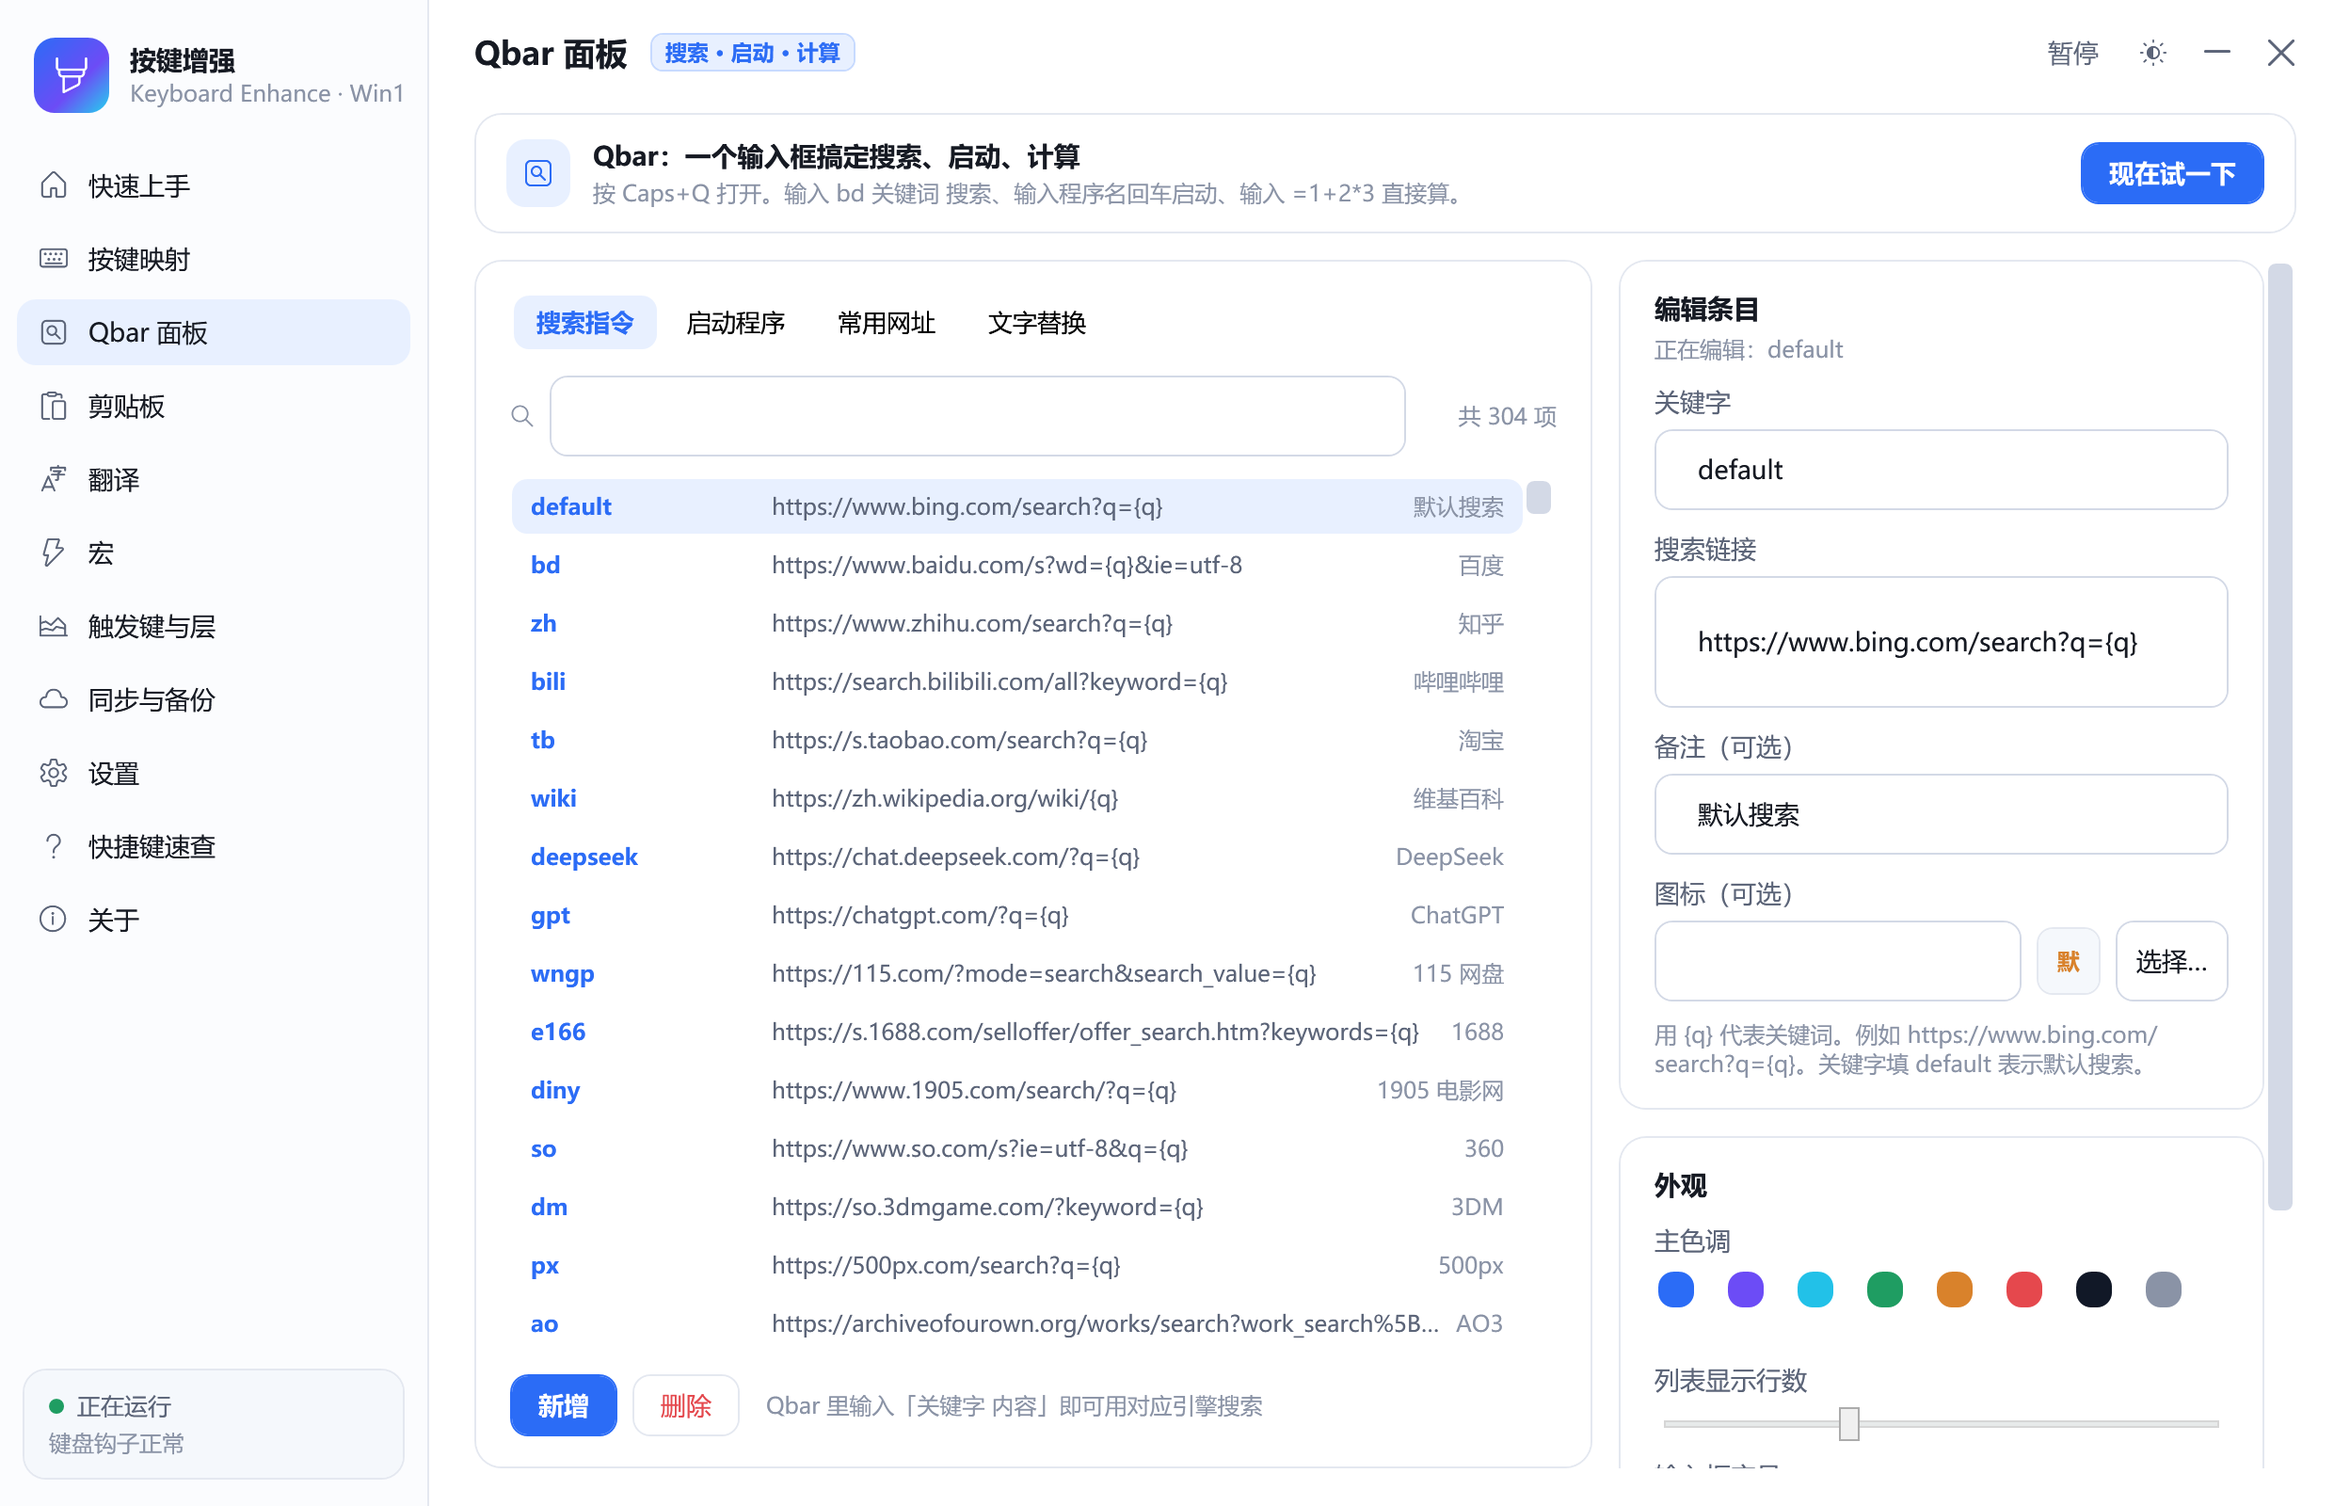
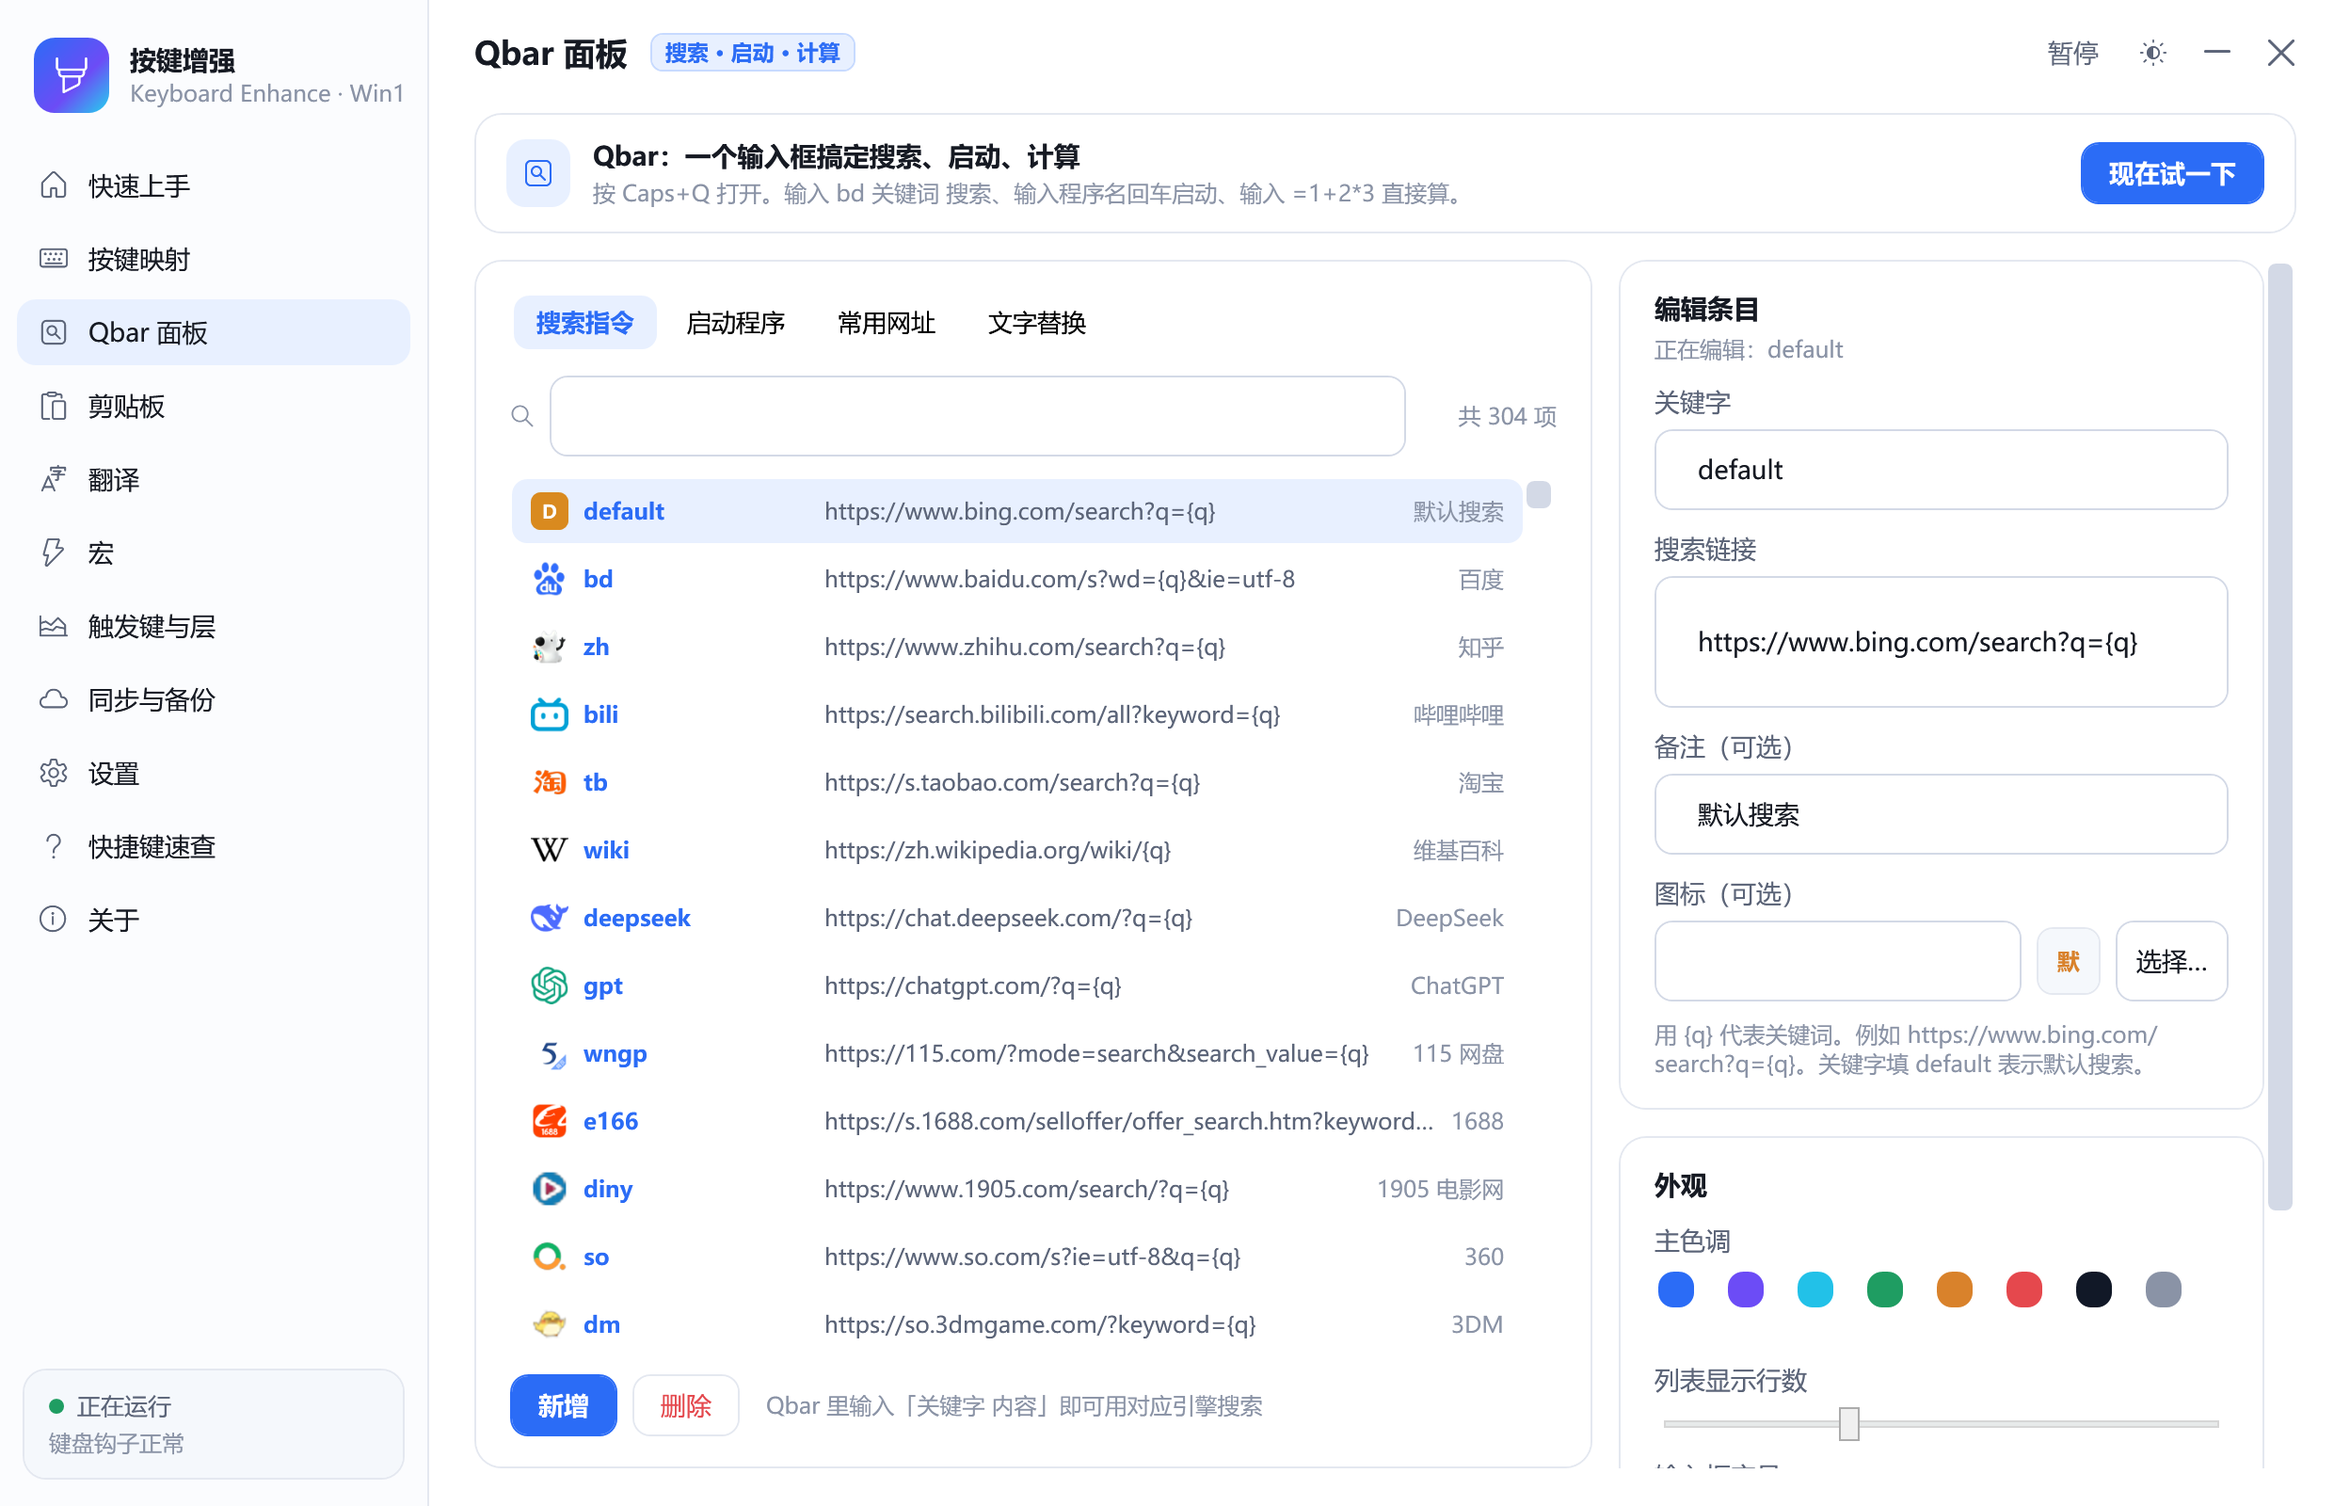
feat: v2.3.0 —— Qbar 引擎列表显示图标；按键映射页去掉布局方案下拉与搜索框
## 一、Qbar 列表显示搜索引擎图标

「Qbar 面板」设置页的搜索指令列表，最左边现在显示对应引擎的图标：

* 内置引擎用随程序打包的**品牌图标**（百度、知乎、B站、淘宝、GitHub、ChatGPT…）
* 「启动程序」条目取该 exe 的图标
* 都没有时退回首字母色块（按关键字取稳定配色，同一引擎永远同色）

复用了现有的 `IconCache.ForEntry` 优先级链（内置资源 → 自定义图标路径 → exe 图标）。

## 二、按键映射页移除布局方案下拉

顶部原本有「布局方案」下拉（Capslox / 经典 CapsLock+ 3.0）和「恢复默认」按钮。

用户要求：**直接用新版且不可更改**。所以：

* 下掉整个下拉控件
* `SettingsStore.Normalize` 里强制 `HotkeyScheme = "capslox"` ——
  老配置即使写着 `capslock_plus`，读进来也归一化为新版
* 字段本身保留（避免旧配置解析失败），只是不再有切换入口
* 删除 `OnSchemeChanged`（含"切换会替换按键映射"的确认对话框）

理由：两套方案的差别仅在于默认绑定表，用户真正需要的是"改哪个键做什么"，
不需要先理解自己属于哪一代方案。

## 三、移除旁边的搜索框

那是个空白文本框，原本用于过滤键盘上的键。实际使用中几乎没人用，
却占掉一整行空间。现在顶部只剩一行提示文字 + 「恢复默认」按钮，
键盘区域得以更完整地展示。

配套把 `BuildKeyboard` 的过滤条件恒置为空（`filter = ""`），
并删除 `OnSearchChanged`。

## 自检

**867 项全部通过**。

## 验证（发布版实测）

| 项目 | 结果 |
| --- | --- |
| 自检 | **867 / 867** |
| 渲染 | 20 个页面（Qbar 列表已显示图标）|
| WebDAV 真实往返 | 11 / 11 |

diff --git a/src/CapsLockPlus/UI/Views/QbarSettingsView.xaml b/src/CapsLockPlus/UI/Views/QbarSettingsView.xaml
@@ -117,17 +117,34 @@
                         <DataTemplate>
                             <Grid>
                                 <Grid.ColumnDefinitions>
+                                    <!-- 图标列：搜索引擎品牌图标 / 程序图标 -->
+                                    <ColumnDefinition Width="Auto" />
                                     <ColumnDefinition Width="120" />
                                     <ColumnDefinition Width="*" />
                                     <ColumnDefinition Width="Auto" />
                                 </Grid.ColumnDefinitions>
-                                <TextBlock Grid.Column="0" Text="{Binding Key}" FontWeight="SemiBold"
+
+                                <!-- 有图标显示图标，没有则显示首字母色块 -->
+                                <Grid Grid.Column="0" Width="20" Height="20" Margin="0,0,8,0"
+                                      VerticalAlignment="Center">
+                                    <Image Source="{Binding Icon}" Stretch="Uniform"
+                                           RenderOptions.BitmapScalingMode="HighQuality" />
+                                    <Border Background="{Binding LetterBrush}" CornerRadius="5"
+                                            Visibility="{Binding NoIconVisibility}">
+                                        <TextBlock Text="{Binding Initial}" FontSize="10"
+                                                   FontWeight="SemiBold" Foreground="White"
+                                                   HorizontalAlignment="Center"
+                                                   VerticalAlignment="Center" />
+                                    </Border>
+                                </Grid>
+
+                                <TextBlock Grid.Column="1" Text="{Binding Key}" FontWeight="SemiBold"
                                            VerticalAlignment="Center" TextTrimming="CharacterEllipsis"
                                            Foreground="{DynamicResource Brush.Accent}" />
-                                <TextBlock Grid.Column="1" Text="{Binding Value}" VerticalAlignment="Center"
+                                <TextBlock Grid.Column="2" Text="{Binding Value}" VerticalAlignment="Center"
                                            TextTrimming="CharacterEllipsis" Margin="8,0,8,0"
                                            Foreground="{DynamicResource Brush.TextSecondary}" />
-                                <TextBlock Grid.Column="2" Text="{Binding Comment}" VerticalAlignment="Center"
+                                <TextBlock Grid.Column="3" Text="{Binding Comment}" VerticalAlignment="Center"
                                            Style="{StaticResource Text.Tertiary}" />
                             </Grid>
                         </DataTemplate>

diff --git a/src/CapsLockPlus/UI/Views/KeysView.xaml b/src/CapsLockPlus/UI/Views/KeysView.xaml
@@ -12,27 +12,20 @@
         <Border Grid.Row="0" Style="{StaticResource Card}" Padding="16,13" Margin="0,0,0,14">
             <Grid>
                 <Grid.ColumnDefinitions>
-                    <ColumnDefinition Width="Auto" />
                     <ColumnDefinition Width="*" />
                     <ColumnDefinition Width="Auto" />
                 </Grid.ColumnDefinitions>
 
-                <StackPanel Grid.Column="0" Orientation="Horizontal">
-                    <TextBlock Text="布局方案" Style="{StaticResource Text.Secondary}" VerticalAlignment="Center"
-                               Margin="0,0,9,0" />
-                    <ComboBox x:Name="SchemeBox" Style="{StaticResource ComboBox.Base}" Width="212"
-                              SelectionChanged="OnSchemeChanged">
-                        <ComboBoxItem Content="Capslox（3.0 之后，推荐）" Tag="capslox" />
-                        <ComboBoxItem Content="经典 CapsLock+ 3.0 之前" Tag="capslock_plus" />
-                    </ComboBox>
-                </StackPanel>
+                <!-- 布局方案固定为新版（Capslox），不再提供切换 —— 旧方案
+                     只是历史兼容，留着下拉只会让人误以为要选一个。
+                     旁边那个搜索框也移除了：它原本用于过滤按键，
+                     但实际使用中几乎没人用，反而占掉一行空间。 -->
+                <TextBlock Grid.Column="0" VerticalAlignment="Center"
+                           Style="{StaticResource Text.Secondary}" TextTrimming="CharacterEllipsis"
+                           Text="点击键盘上任意键即可编辑它的功能，修改立即生效" />
 
-                <TextBox Grid.Column="1" x:Name="SearchBox" Style="{StaticResource TextBox.Base}"
-                         Margin="16,0,16,0" MinHeight="36" VerticalContentAlignment="Center"
-                         TextChanged="OnSearchChanged" ToolTip="搜索按键或功能，例如 q、F2、剪贴板" />
-
-                <Button Grid.Column="2" Content="恢复默认" Style="{StaticResource Button.Base}"
-                        Click="OnResetClick" />
+                <Button Grid.Column="1" Content="恢复默认" Style="{StaticResource Button.Base}"
+                        Margin="16,0,0,0" Click="OnResetClick" />
             </Grid>
         </Border>
 

diff --git a/src/CapsLockPlus/UI/Views/QbarSettingsView.xaml.cs b/src/CapsLockPlus/UI/Views/QbarSettingsView.xaml.cs
@@ -306,10 +306,53 @@ public partial class QbarSettingsView : UserControl
 
     private sealed class EntryVm
     {
-        public EntryVm(QEntry entry) => Entry = entry;
+        public EntryVm(QEntry entry)
+        {
+            Entry = entry;
+
+            /* 图标：内置引擎有品牌图标（随程序打包），
+             * 程序条目会取 exe 图标，都没有则退回首字母色块。
+             * IconCache.ForEntry 已封装这套优先级，直接用。 */
+            try { Icon = IconCache.ForEntry(entry); } catch { Icon = null; }
+
+            LetterBrush = new SolidColorBrush(ColorFor(entry.Key));
+            Initial = string.IsNullOrWhiteSpace(entry.Key) ? "?"
+                : entry.Key[..1].ToUpperInvariant();
+        }
+
         public QEntry Entry { get; }
         public string Key => Entry.Key;
         public string Value => Entry.Value;
         public string Comment => Entry.Comment;
+
+        /// <summary>图标（可能为 null）。</summary>
+        public System.Windows.Media.ImageSource? Icon { get; }
+
+        /// <summary>没有图标时显示的首字母。</summary>
+        public string Initial { get; }
+
+        /// <summary>首字母色块的背景色（按关键字取稳定颜色）。</summary>
+        public System.Windows.Media.Brush LetterBrush { get; }
+
+        /// <summary>有图标时隐藏色块。</summary>
+        public System.Windows.Visibility NoIconVisibility =>
+            Icon == null ? System.Windows.Visibility.Visible : System.Windows.Visibility.Collapsed;
+
+        private static Color ColorFor(string text)
+        {
+            // 稳定配色：同一关键字永远同一个颜色，不随列表顺序变
+            unchecked
+            {
+                int h = 17;
+                foreach (char c in text) h = h * 31 + c;
+                var palette = new[]
+                {
+                    Color.FromRgb(0x2B, 0x6C, 0xF6), Color.FromRgb(0x7C, 0x5C, 0xE0),
+                    Color.FromRgb(0x1F, 0xA8, 0x9C), Color.FromRgb(0x2E, 0xA0, 0x4F),
+                    Color.FromRgb(0xD9, 0x8A, 0x1F), Color.FromRgb(0xD4, 0x4A, 0x5B),
+                };
+                return palette[Math.Abs(h) % palette.Length];
+            }
+        }
     }
 }

diff --git a/src/CapsLockPlus/UI/Views/KeysView.xaml.cs b/src/CapsLockPlus/UI/Views/KeysView.xaml.cs
@@ -201,7 +201,6 @@ public partial class KeysView : UserControl
     {
         if (_host == null) return;
         _suppressEvents = true;
-        SchemeBox.SelectedIndex = _host.Settings.Global.HotkeyScheme == "capslock_plus" ? 1 : 0;
 
         BuildCategoryBox();
         _suppressEvents = false;
@@ -459,7 +458,8 @@ public partial class KeysView : UserControl
     {
         if (_host == null) return;
         KeyboardPanel.Children.Clear();
-        string filter = SearchBox.Text?.Trim() ?? "";
+        // 搜索框已移除：不再按关键字过滤，整把键盘始终完整显示
+        string filter = "";
         int bound = 0;
 
         /* 触发键在键盘上的**真实位置**高亮。
@@ -1399,7 +1399,7 @@ public partial class KeysView : UserControl
         SelectKey(_selectedKey);
     }
 
-    private void OnSearchChanged(object sender, TextChangedEventArgs e) => BuildKeyboard();
+
 
     private void OnBoundSelected(object sender, SelectionChangedEventArgs e)
     {
@@ -1412,25 +1412,6 @@ public partial class KeysView : UserControl
         }
     }
 
-    private void OnSchemeChanged(object sender, SelectionChangedEventArgs e)
-    {
-        if (_host == null || _suppressEvents) return;
-        if (SchemeBox.SelectedItem is not ComboBoxItem item || item.Tag is not string scheme) return;
-        if (_host.Settings.Global.HotkeyScheme == scheme) return;
-        var result = MessageBox.Show(Window.GetWindow(this),
-            "切换布局会把当前按键映射替换成该方案的默认值。\n你自己新增的组合键会保留。\n\n继续吗？",
-            "切换按键方案", MessageBoxButton.OKCancel, MessageBoxImage.Question);
-        if (result != MessageBoxResult.OK)
-        {
-            _suppressEvents = true;
-            SchemeBox.SelectedIndex = _host.Settings.Global.HotkeyScheme == "capslock_plus" ? 1 : 0;
-            _suppressEvents = false;
-            return;
-        }
-        _host.ApplyHotkeyScheme(scheme);
-        _host.Notify("已切换按键方案");
-        Refresh();
-    }
 
     private void OnActionChanged(object sender, SelectionChangedEventArgs e)
     {

diff --git a/src/CapsLockPlus/Core/Settings/SettingsStore.cs b/src/CapsLockPlus/Core/Settings/SettingsStore.cs
@@ -314,7 +314,15 @@ public static class SettingsStore
         s.Macros ??= new List<Macro>();
         s.Global.MouseSpeed = Math.Clamp(s.Global.MouseSpeed, 1, 20);
         s.Qbar.ListCount = Math.Clamp(s.Qbar.ListCount, 3, 12);
-        if (string.IsNullOrWhiteSpace(s.Global.HotkeyScheme)) s.Global.HotkeyScheme = "capslox";
+        /* 布局方案固定为新版（Capslox），不再允许切换。
+         *
+         * 旧的「经典 CapsLock+ 3.0」方案只是历史兼容产物：两套布局的差别
+         * 仅在于默认绑定表，而用户真正需要的是"改哪个键做什么"，
+         * 不需要先理解自己属于哪一代方案。留着切换只会制造困惑。
+         *
+         * 这里强制归一化：老配置即使写着 capslock_plus，读进来也会变成
+         * capslox。字段本身保留，避免旧配置文件解析失败。 */
+        s.Global.HotkeyScheme = "capslox";
 
         NormalizeLayers(s);
 
